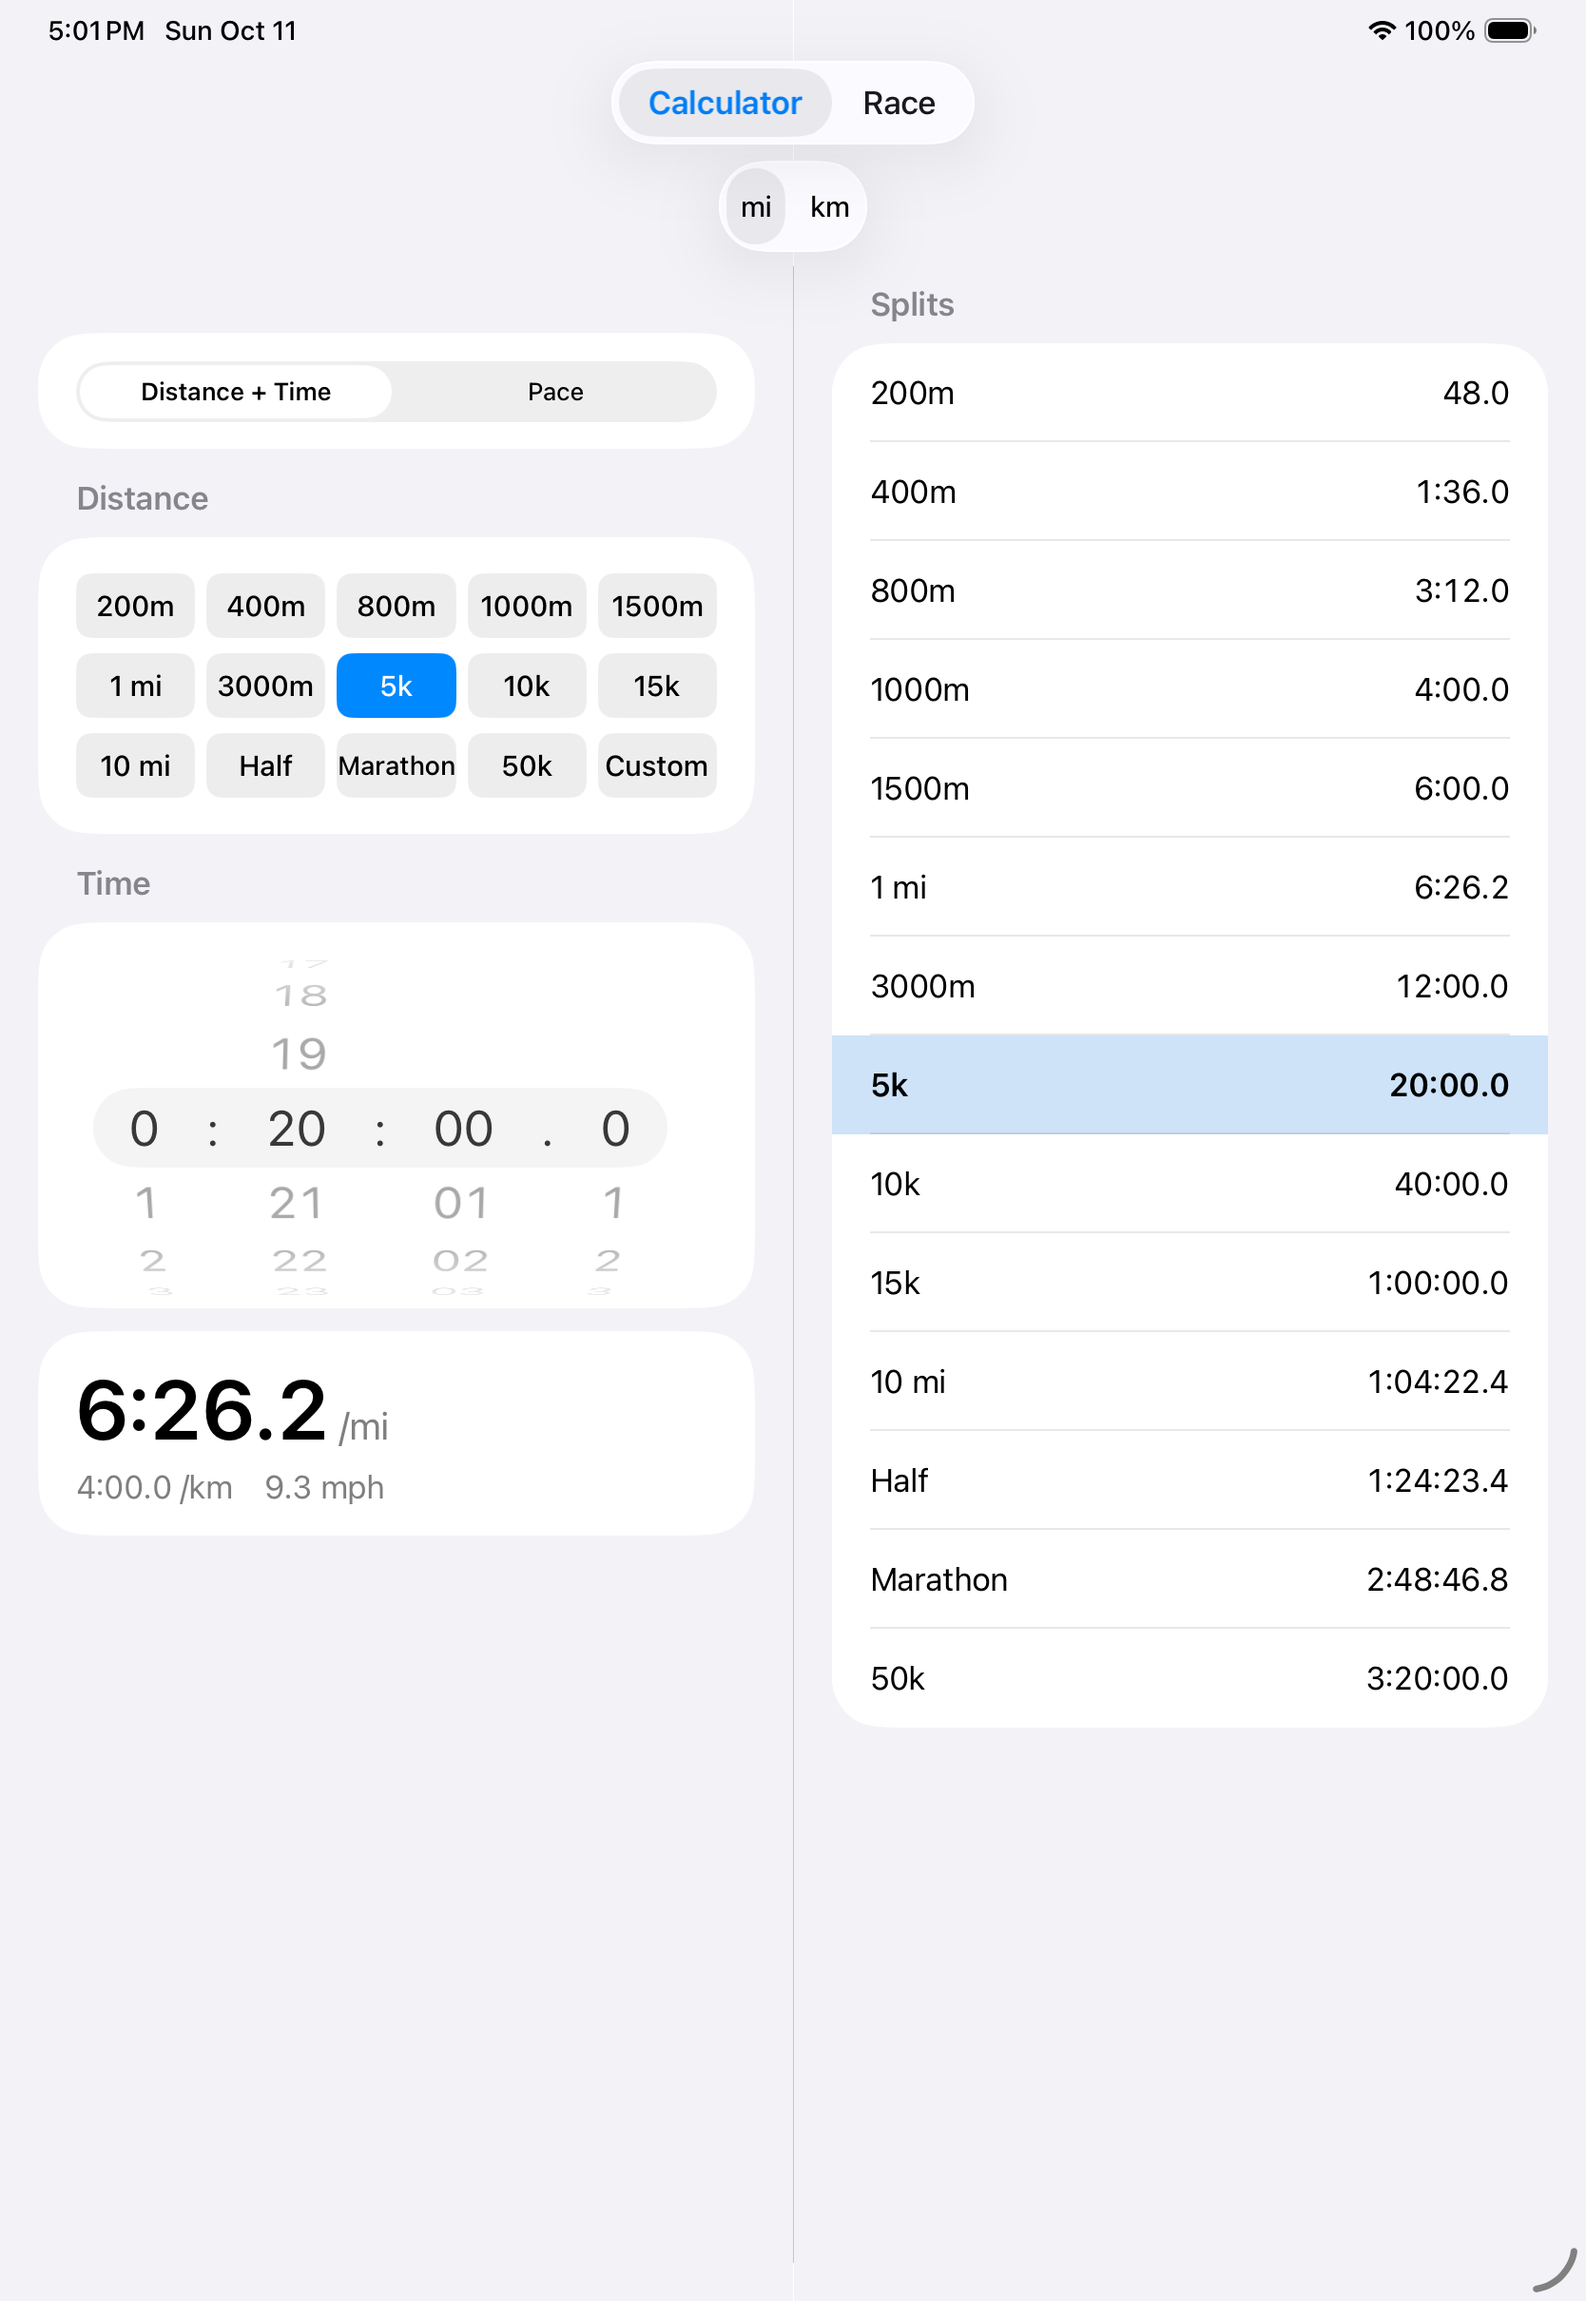
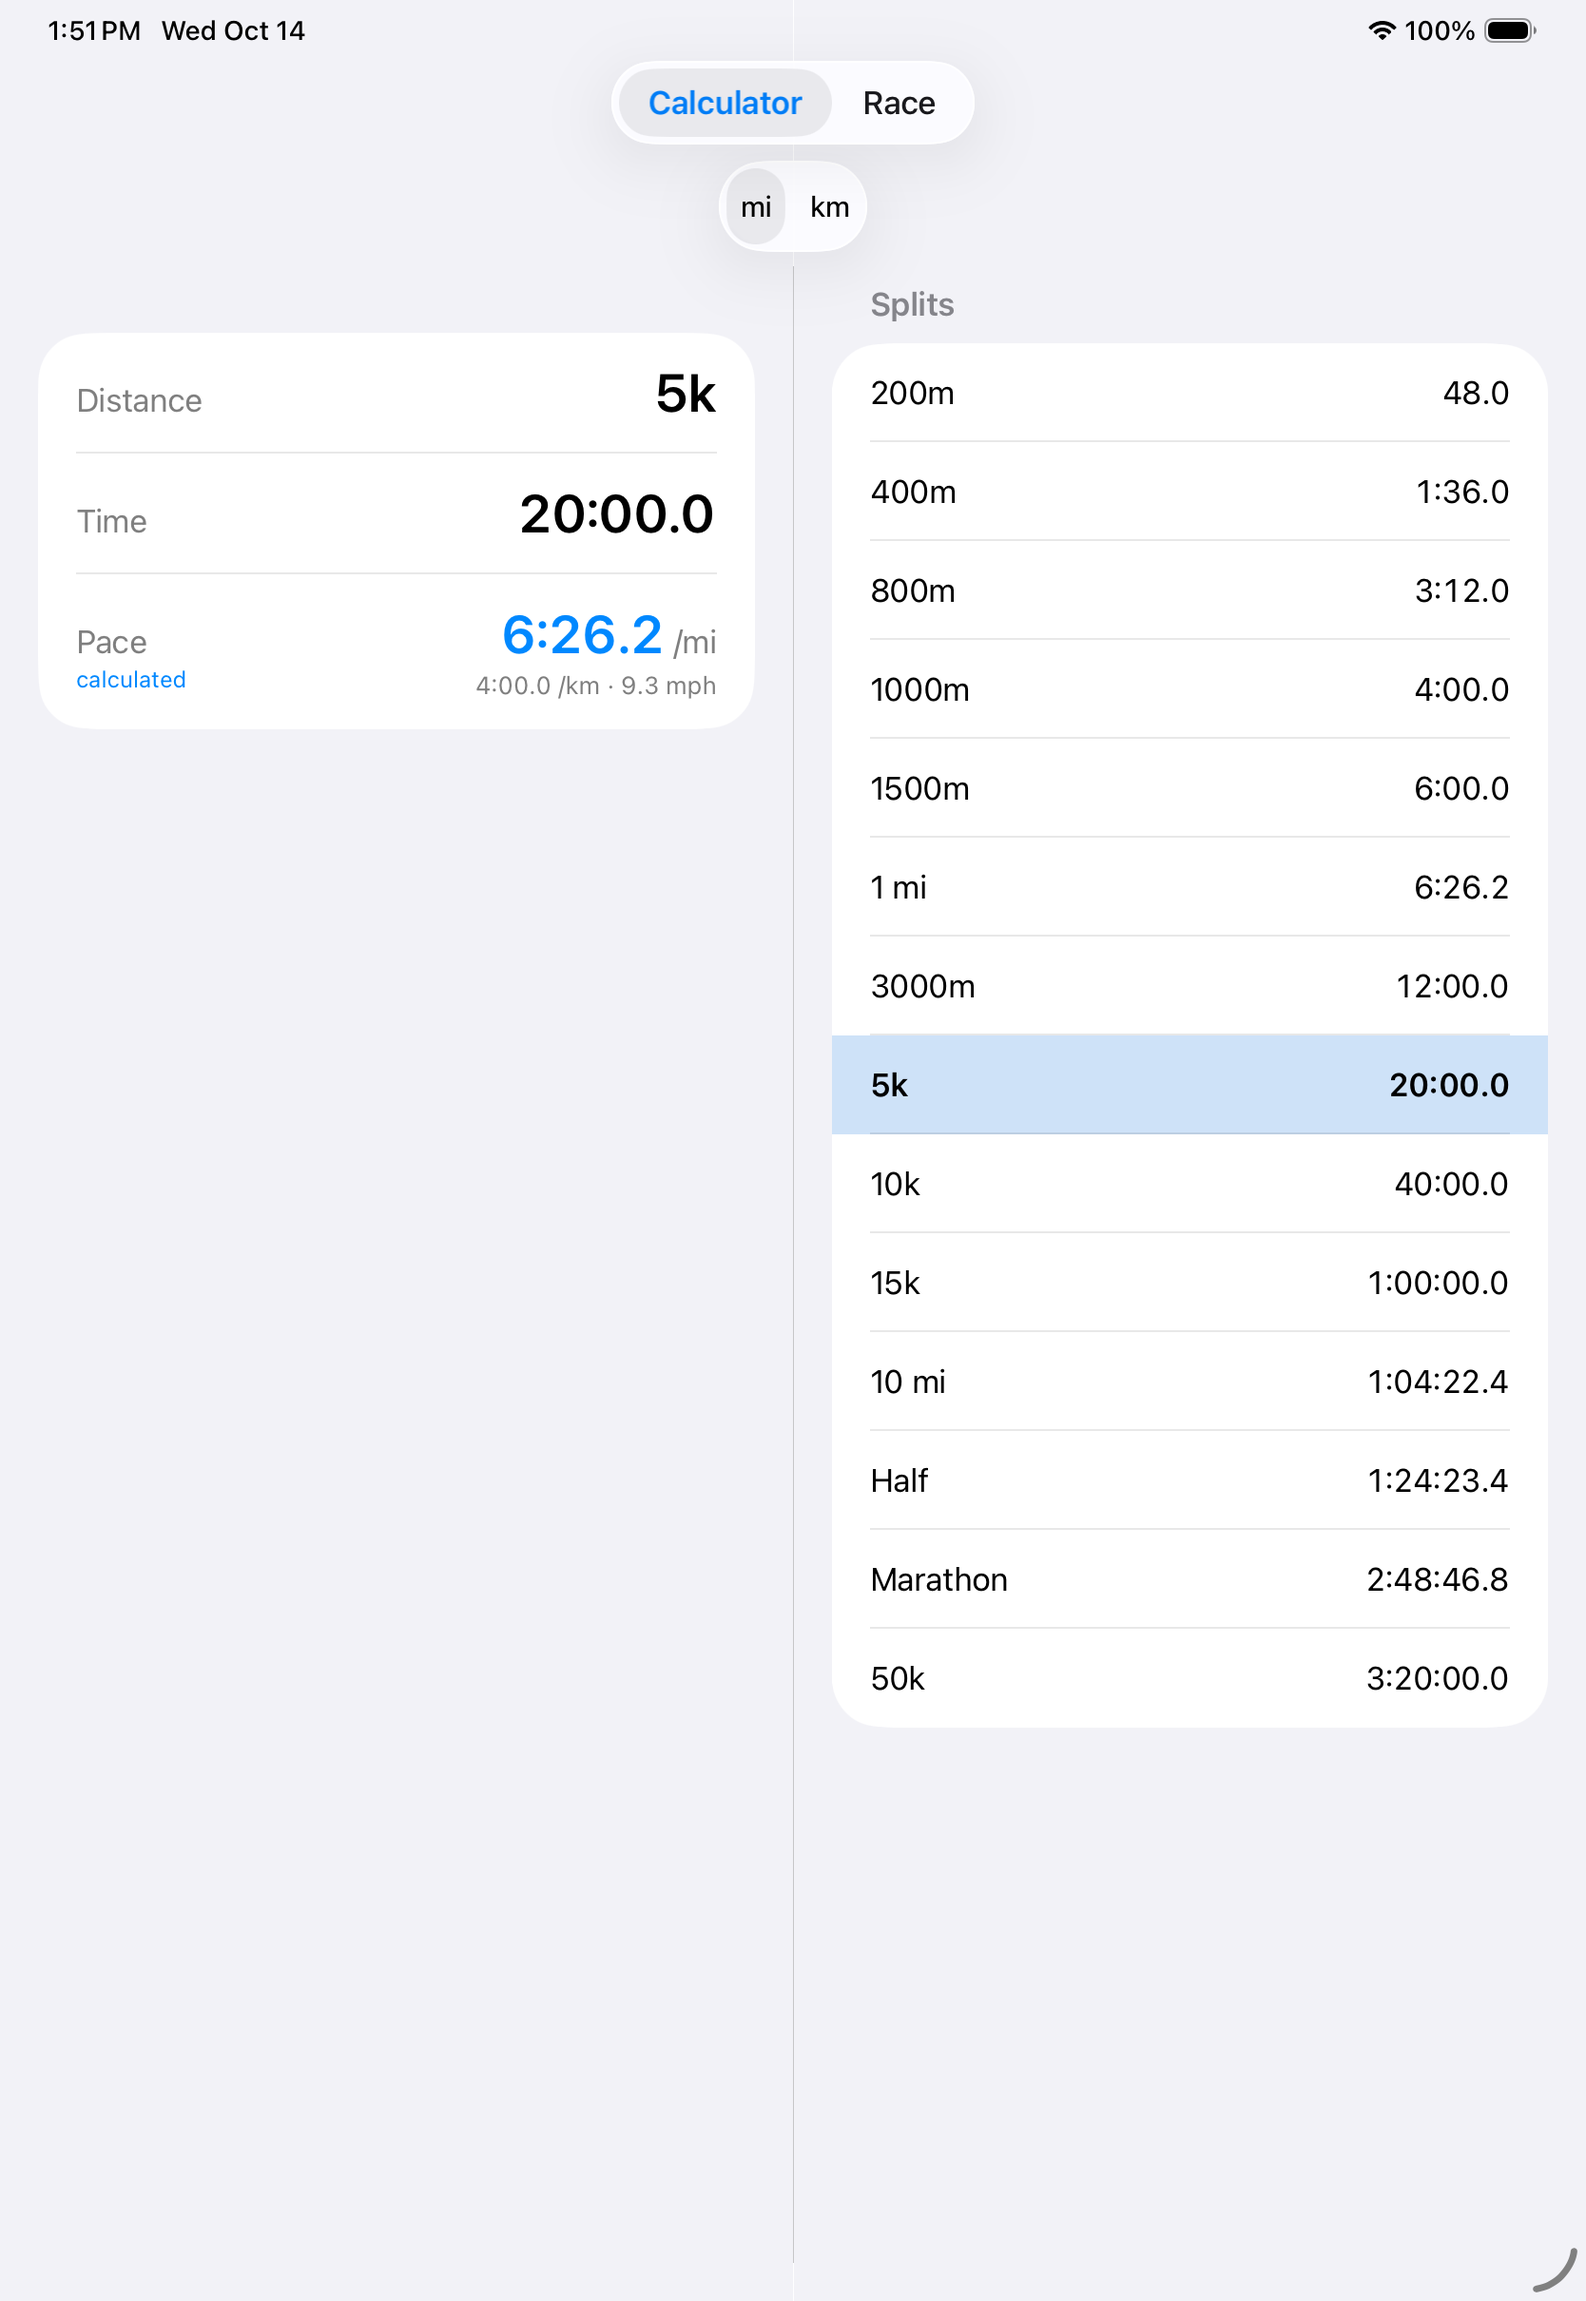
Prepare Split Pace Pro for TestFlight and GitHub
- Rename the app to Split Pace Pro (iOS bundle ID com.conorsleith.SplitPacePro;
  Android label only, so existing installs update in place) and bump Android to 1.4.
- Add an app icon for iOS/macOS, rendered by scripts/make-icon.swift to match
  the Android icon.
- Declare no non-exempt encryption so TestFlight skips the export
  compliance question.
- Add scripts/testflight.sh to archive and upload builds, numbered by date/time.
- Add a README for the GitHub page (features, support, privacy) and refresh
  the iPad screenshot.

diff --git a/scripts/make-icon.swift b/scripts/make-icon.swift
@@ -1,0 +1,45 @@
+// Renders the 1024×1024 app icon: a white stopwatch on blue, matching the
+// Android launcher icon. Usage: swift scripts/make-icon.swift <output.png>
+import AppKit
+
+let size = 1024
+let out = CommandLine.arguments[1]
+
+// App Store icons must be opaque, so draw into a context without alpha.
+let context = CGContext(
+    data: nil, width: size, height: size, bitsPerComponent: 8, bytesPerRow: 0,
+    space: CGColorSpace(name: CGColorSpace.sRGB)!,
+    bitmapInfo: CGImageAlphaInfo.noneSkipLast.rawValue
+)!
+
+// Blue background (#1A73E8).
+context.setFillColor(CGColor(red: 0x1A / 255.0, green: 0x73 / 255.0, blue: 0xE8 / 255.0, alpha: 1))
+context.fill(CGRect(x: 0, y: 0, width: size, height: size))
+
+// Same geometry as the Android vector (108-unit canvas), enlarged to fill
+// more of the iOS icon and centred on the glyph (54, 54). Flipped because
+// Core Graphics has its origin at the bottom left.
+let scale = Double(size) / 72
+let offset = Double(size) / 2 - 54 * scale
+func x(_ v: Double) -> Double { v * scale + offset }
+func y(_ v: Double) -> Double { Double(size) - (v * scale + offset) }
+
+context.setFillColor(.white)
+context.setStrokeColor(.white)
+
+// Crown.
+context.fill(CGRect(x: x(48), y: y(35), width: 12 * scale, height: 5 * scale))
+
+// Dial.
+context.setLineWidth(5 * scale)
+context.strokeEllipse(in: CGRect(x: x(35), y: y(77), width: 38 * scale, height: 38 * scale))
+
+// Hand.
+context.setLineWidth(4 * scale)
+context.setLineCap(.round)
+context.move(to: CGPoint(x: x(54), y: y(58)))
+context.addLine(to: CGPoint(x: x(54), y: y(46)))
+context.strokePath()
+
+let rep = NSBitmapImageRep(cgImage: context.makeImage()!)
+try! rep.representation(using: .png, properties: [:])!.write(to: URL(fileURLWithPath: out))

diff --git a/README.md b/README.md
@@ -1,0 +1,66 @@
+# Split Pace Pro
+
+A fast, no-fuss pace calculator for runners and race fans, for iPhone, iPad, Mac and Android. Scroll to set your distance and time (no typing) and get your answer instantly. Then follow live races split by split with projected finish times.
+
+<p>
+  <img src="docs/screenshots/iphone-calculator.png" alt="Calculator: distance, time and calculated pace, with times for every common distance" width="260">
+  <img src="docs/screenshots/iphone-race.png" alt="Race mode: following the men's and women's marathons, with projected finish times" width="260">
+  <img src="docs/screenshots/android-race.png" alt="Race mode on Android" width="260">
+</p>
+
+## Features
+
+### Pace calculator
+
+- Enter a distance and time to get your pace, or set a pace to get your time
+- See per-mile and per-km pace side by side, plus speed in mph or km/h for the treadmill
+- A splits table shows your time at that pace for every common distance: 200m, 400m, 800m, 1000m, 1500m, mile, 3000m, 5k, 10k, 15k, 10 miles, half marathon, marathon and 50k
+- Tap any distance to jump to it at the same pace
+- Enter any custom distance in miles or kilometers
+- Every time is shown to a tenth of a second
+
+It answers questions like:
+
+- What should I run each 400m in to hold 5:45 per mile? **1:25.7**
+- What pace was my 800m in 2:45? **5:31.9 per mile**
+- The leaders went through 5k in 14:34. What will they finish the marathon in at that pace? **2:02:55.7**
+
+### Race mode
+
+Follow a race live, split by split:
+
+- **Track races:** 800m, 1500m, mile, 3000m, 5000m and 10,000m, with the real split points (300m first lap in the 1500, 409m in the mile, 200m in the 5000)
+- **Road races:** 5k, 10k, half marathon and marathon, with 1k, 5k or mile splits
+- Enter each split as it happens. The time is pre-filled with the even-pace estimate, so you usually just adjust a few seconds
+- See the projected finish at both the average pace and the pace since the last split
+- Lap pace per 400m for track races; pace per mile or km for road races
+- Follow the men's and women's races at the same time and switch with one tap
+- Missed a split? Skip it. Made a mistake? Edit or undo it
+- Races are saved automatically, even if you close the app
+
+## Support
+
+Found a bug, have a question, or want to suggest a feature? [Open an issue](../../issues) on this repository, and include your device and what you were doing if something went wrong.
+
+### Common questions
+
+**How do I enter a time?** Tap Distance, Time or Pace and scroll the numbers to set it. Tap the same row or **Done** to close it.
+
+**Which value gets calculated?** Distance is always what you set. Of time and pace, whichever you changed last stays fixed and the other is calculated, shown in blue and labelled "calculated".
+
+**How do I change between miles and kilometers?** Use the **mi / km** switch at the top for pace. When entering a custom distance, scroll its unit (mi or km) separately, so you can enter e.g. 15 km while seeing pace per mile.
+
+**How do I follow two races at once?** In the Race tab, open the menu (**…** on iPhone, **⋮** on Android) → **Add race** for each one (for example the men's and women's marathon), then switch between them at the top.
+
+**How do I fix a wrong split?** Select it in the split list, adjust the time and tap **Update**, or tap **Clear**. On iPhone you can also swipe a split to clear it; on Android, long-press it.
+
+## Privacy
+
+Split Pace Pro doesn't collect, store or share any personal data. There are no accounts, ads, analytics or tracking, and the app makes no network connections. Your settings and saved races stay on your device and are removed when you delete the app.
+
+## Building from source
+
+- **iOS / iPadOS / macOS:** SwiftUI app. The Xcode project is generated with [XcodeGen](https://github.com/yonaskolb/XcodeGen): run `xcodegen generate`, then open `PaceCalculator.xcodeproj`. The calculation logic lives in the `PaceCore` Swift package (`swift test` in `PaceCore/`).
+- **Android:** Kotlin + Jetpack Compose in `android/`. Build with `./gradlew assembleRelease` (requires JDK 17+, e.g. Android Studio's bundled one).
+
+Both platforms are checked against the same test cases in `PaceCore/Tests/PaceCoreTests/fixtures.json`. See [docs/PLAN.md](docs/PLAN.md) for the design.

diff --git a/docs/PLAN.md b/docs/PLAN.md
@@ -1,4 +1,6 @@
-# Pace Calculator — Plan
+# Split Pace Pro — Plan
+
+Shown as **Split Pace Pro** on the home screen. iOS bundle ID `com.conorsleith.SplitPacePro` (App Store Connect name SplitPacePro); Android application ID `com.conorsleith.pace`.
 
 ## Goals
 
@@ -108,6 +110,12 @@ Minimums: iOS 17, macOS 14.
 - `android/app`: Compose UI mirroring iOS. Wheels are the platform `NumberPicker` (wrap-around for minutes/seconds/tenths). Unit and last tab in SharedPreferences; races in `races.json` in app storage, written after every change.
 - Differences from iOS: a recorded split is cleared with long-press (or the Clear button) rather than swipe; single-column layout on tablets.
 - Build: `cd android && ./gradlew assembleRelease` (needs `JAVA_HOME` set to a JDK 17+, e.g. Android Studio's bundled one). The release APK is signed with the local debug key for sharing with testers; set up a real keystore before any Play Store release.
+
+## Distribution
+
+- **iOS:** TestFlight. Run `scripts/testflight.sh` to archive and upload a build with the Apple ID signed into Xcode; build numbers come from the UTC date/time. Testers are managed in App Store Connect → TestFlight.
+- **Android:** share the APK from `cd android && ./gradlew assembleRelease`, bumping `versionCode`/`versionName` in `android/app/build.gradle.kts` for each release so it installs as an update.
+- **App icon:** `scripts/make-icon.swift` renders the iOS/macOS icon (white stopwatch on #1A73E8), matching the Android adaptive icon.
 
 ## Architecture
 
